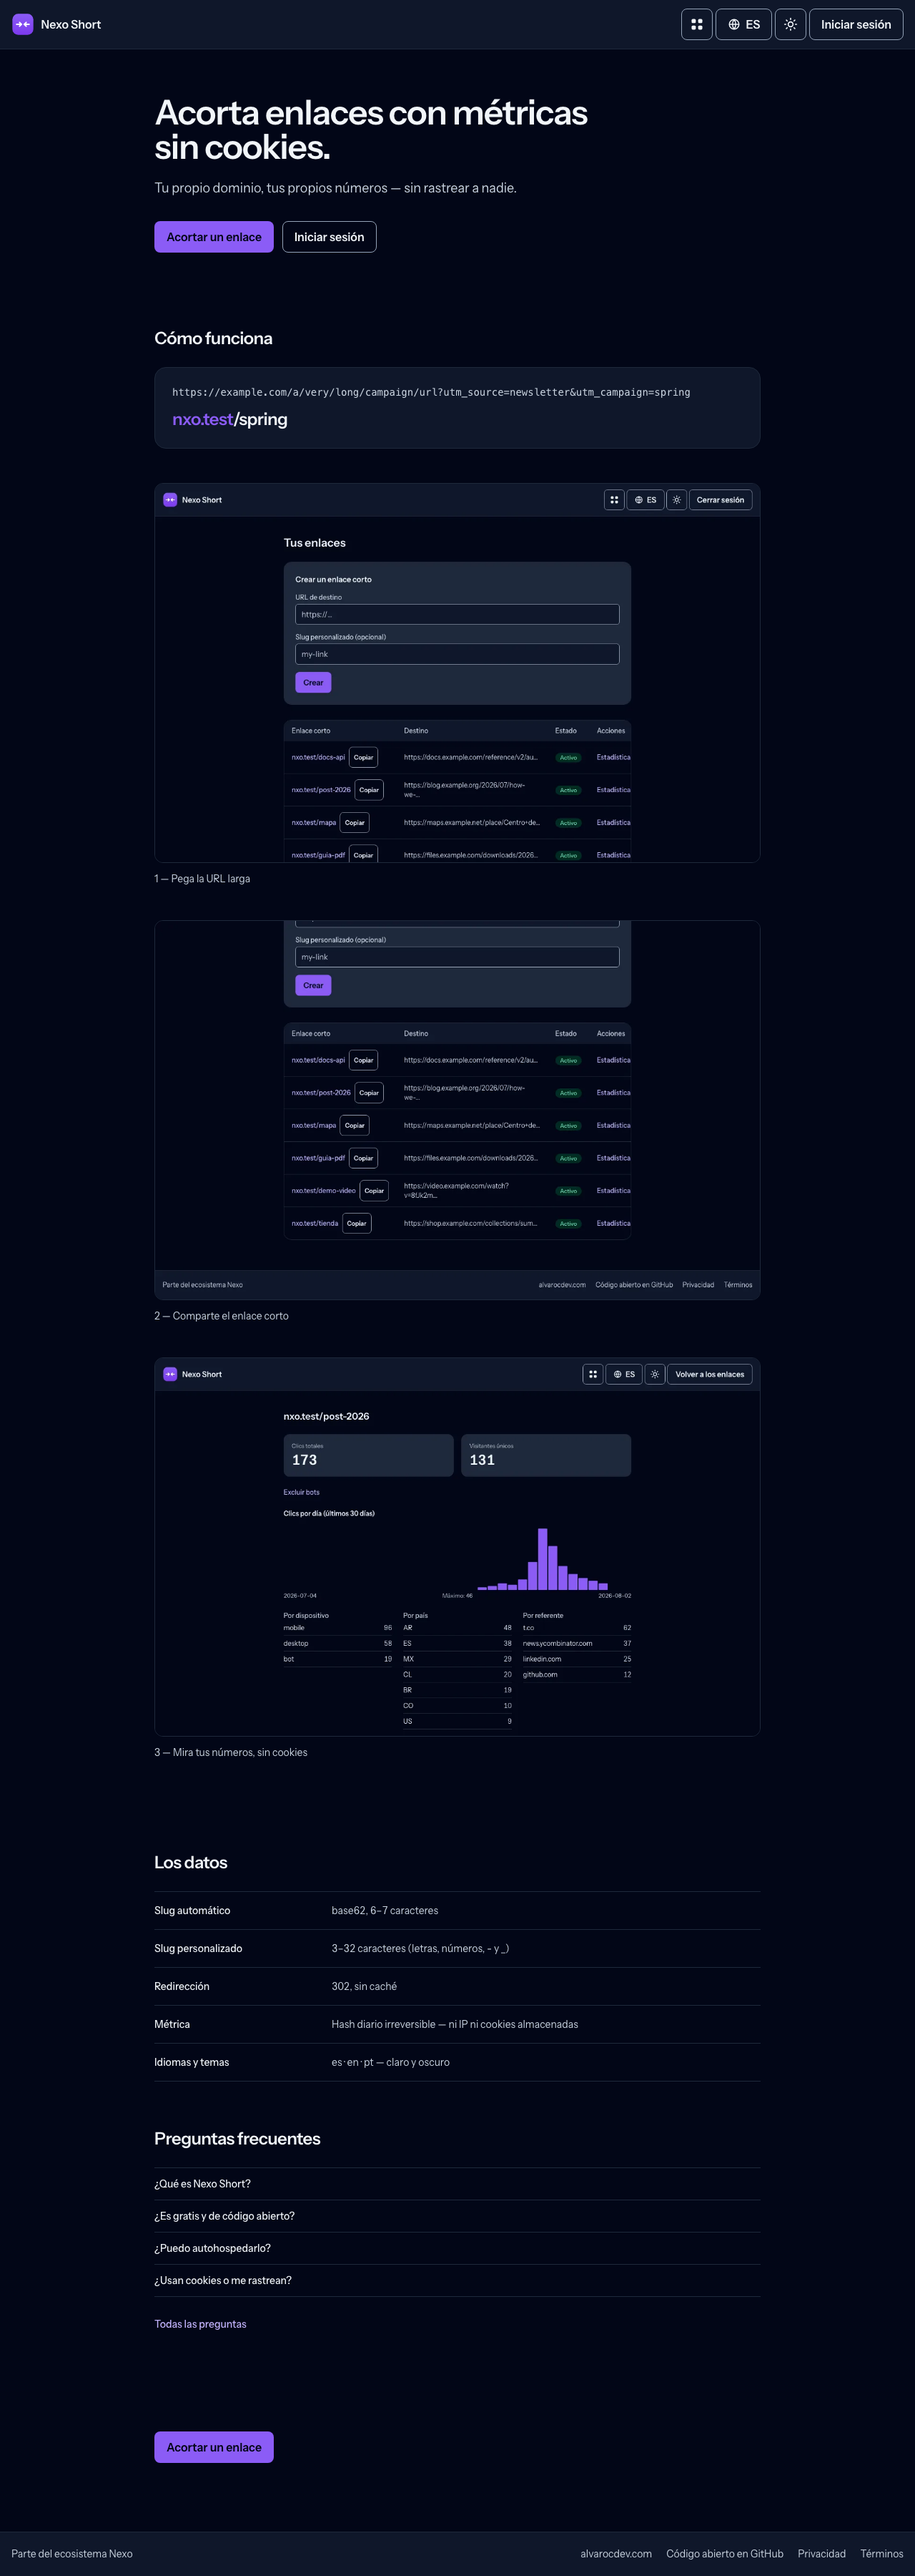
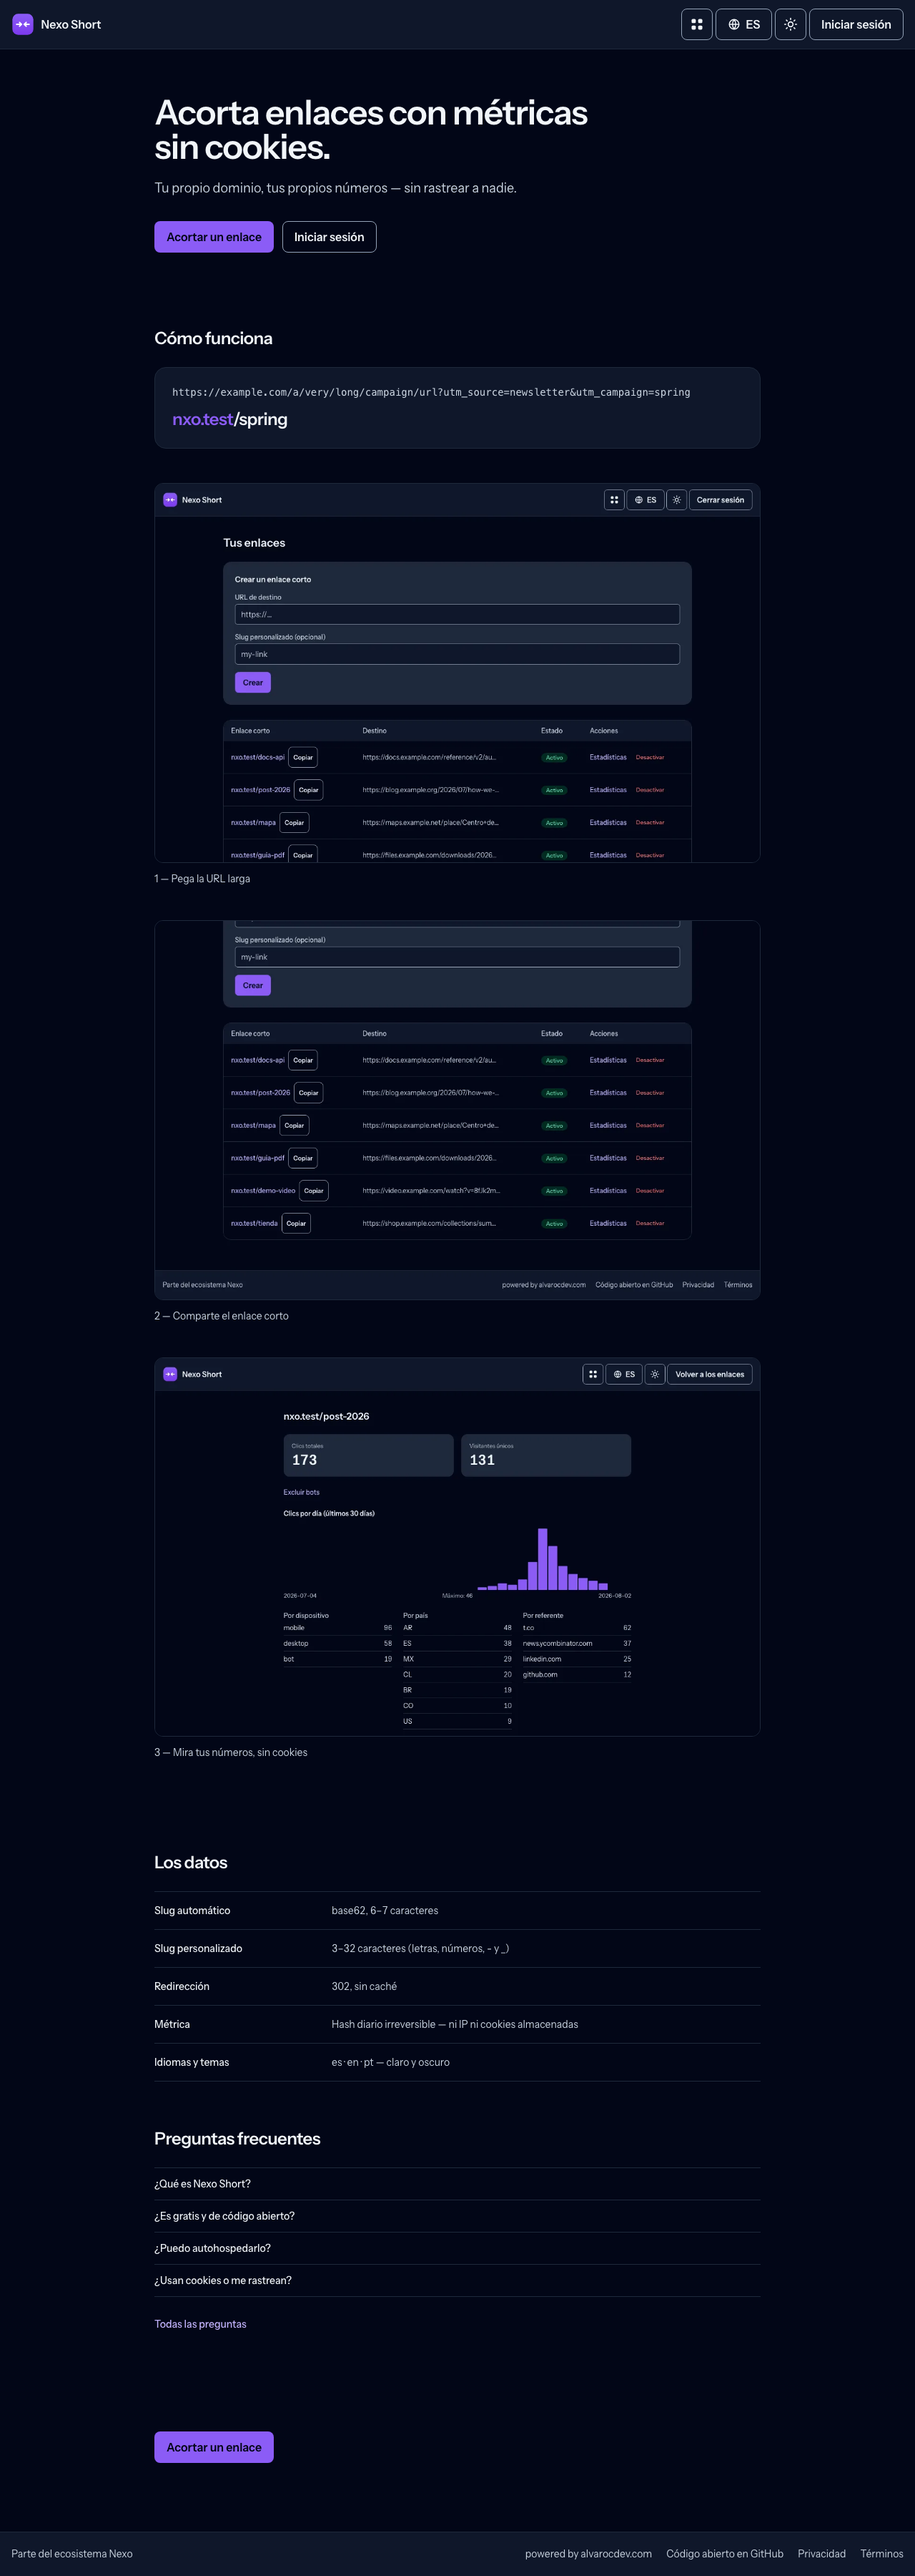
landing: the figures become readable on the phone that reads them
STANDARD.md asks for captures legible without zoom, and most of the traffic
reads this page on a phone. A 1280×800 screenshot shrunk to ~340px is not
legible — it was decoration standing where proof should be. So every product
figure now ships four files instead of two: theme × viewport. shots.json
grows the three 390×844 twins (crear-mobile, tabla-mobile, stats-mobile —
tabla keeps the same scrollTo as its desktop twin, so the figure frames the
list and not the form again), the view uses the canonical four-img markup,
and landing.css picks by media query at 48rem: mobile files below, desktop
above, each theme still following [data-theme] with the prefers-color-scheme
fallback for the pre-stamp instant.

Every capture was regenerated, so the desktop panel figures also pick up the
wider frame from the previous commit: the Acciones column is whole in shot-2.

diff --git a/resources/css/landing.css b/resources/css/landing.css
@@ -5,30 +5,35 @@
    text-muted / border-line in the view, so both themes flip from one token
    instead of from a pair written by hand in two places. */
 
-/* --- The screenshots follow the theme ------------------------------------
+/* --- The screenshots follow the theme AND the viewport --------------------
    theme-init stamps data-theme on <html> before first paint; the media query
-   is the fallback for that instant, and for a browser with JS turned off. */
+   fallback covers that instant and JS-off browsers. Mobile figures below
+   48rem, desktop figures above — a 1280px capture is unreadable at 375px. */
 
-.landing-shot--dark {
+.landing-shot {
     display: none;
 }
 
-[data-theme='dark'] .landing-shot--light {
-    display: none;
+@media (max-width: 47.9375rem) {
+    .landing-shot--mobile.landing-shot--light { display: block; }
+    [data-theme='dark'] .landing-shot--mobile.landing-shot--light { display: none; }
+    [data-theme='dark'] .landing-shot--mobile.landing-shot--dark { display: block; }
 }
 
-[data-theme='dark'] .landing-shot--dark {
-    display: block;
+@media (max-width: 47.9375rem) and (prefers-color-scheme: dark) {
+    :root:not([data-theme]) .landing-shot--mobile.landing-shot--light { display: none; }
+    :root:not([data-theme]) .landing-shot--mobile.landing-shot--dark { display: block; }
 }
 
-@media (prefers-color-scheme: dark) {
-    :root:not([data-theme]) .landing-shot--light {
-        display: none;
-    }
+@media (min-width: 48rem) {
+    .landing-shot--desktop.landing-shot--light { display: block; }
+    [data-theme='dark'] .landing-shot--desktop.landing-shot--light { display: none; }
+    [data-theme='dark'] .landing-shot--desktop.landing-shot--dark { display: block; }
+}
 
-    :root:not([data-theme]) .landing-shot--dark {
-        display: block;
-    }
+@media (min-width: 48rem) and (prefers-color-scheme: dark) {
+    :root:not([data-theme]) .landing-shot--desktop.landing-shot--light { display: none; }
+    :root:not([data-theme]) .landing-shot--desktop.landing-shot--dark { display: block; }
 }
 
 /* --- Rhythm between sections ---------------------------------------------

diff --git a/resources/views/welcome.blade.php b/resources/views/welcome.blade.php
@@ -101,16 +101,27 @@
             <div class="mt-10 space-y-10 sm:mt-12 sm:space-y-12">
                 @foreach ($steps as $step)
                     <figure>
-                        {{-- Both themes ship; landing.css shows the one that
-                             matches [data-theme]. width/height are the real
-                             pixels of the file, so nothing reflows on load. --}}
-                        <img class="landing-shot--light w-full rounded-xl border border-line"
+                        {{-- Four files per figure: theme × viewport. Both themes
+                             ship because landing.css shows the one that matches
+                             [data-theme]; both viewports ship because a 1280×800
+                             capture shrunk to a phone is not the "legible without
+                             zoom" STANDARD.md asks for. width/height are the real
+                             pixels of each file, so nothing reflows on load. --}}
+                        <img class="landing-shot landing-shot--desktop landing-shot--light w-full rounded-xl border border-line"
                              src="/landing/{{ $step['shot'] }}-light.webp"
                              width="1280" height="800" loading="lazy" decoding="async"
                              alt="{{ $step['caption'] }}">
-                        <img class="landing-shot--dark w-full rounded-xl border border-line"
+                        <img class="landing-shot landing-shot--desktop landing-shot--dark w-full rounded-xl border border-line"
                              src="/landing/{{ $step['shot'] }}-dark.webp"
                              width="1280" height="800" loading="lazy" decoding="async"
+                             alt="{{ $step['caption'] }}">
+                        <img class="landing-shot landing-shot--mobile landing-shot--light w-full rounded-xl border border-line"
+                             src="/landing/{{ $step['shot'] }}-mobile-light.webp"
+                             width="390" height="844" loading="lazy" decoding="async"
+                             alt="{{ $step['caption'] }}">
+                        <img class="landing-shot landing-shot--mobile landing-shot--dark w-full rounded-xl border border-line"
+                             src="/landing/{{ $step['shot'] }}-mobile-dark.webp"
+                             width="390" height="844" loading="lazy" decoding="async"
                              alt="{{ $step['caption'] }}">
                         <figcaption class="mt-3 text-sm text-muted">{{ $step['caption'] }}</figcaption>
                     </figure>
